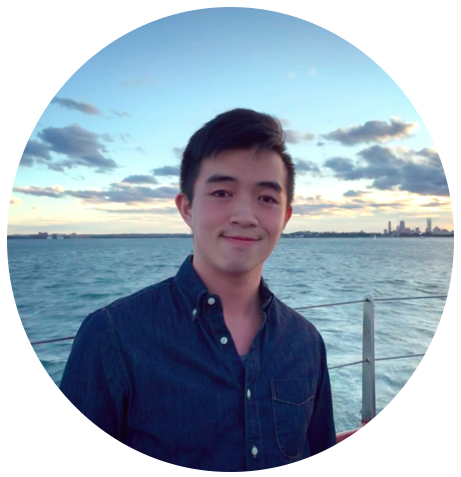
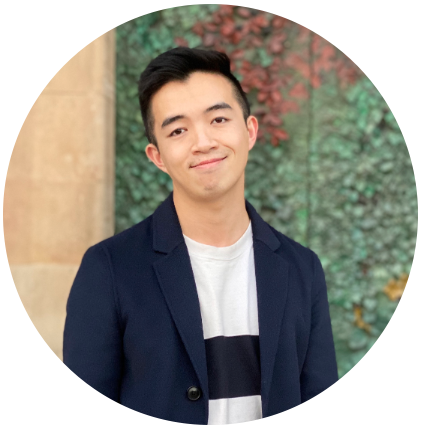
Updates
Updated CV, changed photo

diff --git a/index.html b/index.html
@@ -27,7 +27,7 @@ permalink: /
             <h2>About Me</h2>
             <p>I'm a third-year graduate student in psychology and a <a href="https://frankknox.harvard.edu/" target="_blank">Frank Knox Memorial Fellow</a> at Harvard University. My research focuses on the origins and development of sociomoral cognition. Currently, I'm working toward my PhD under the supervision of <a href="https://www.harvardlds.org/our-labs/spelke-labspelke-lab-members/elizabeth-spelke/" target="_blank">Dr. Elizabeth Spelke</a>.</p>
             <p>I received my BSc in Psychology from the University of British Columbia (UBC) in May 2017. At UBC, I completed my senior undergraduate honors thesis with <a href="https://cic.psych.ubc.ca/people/principal-investigator/" target="_blank">Dr. Kiley Hamlin</a>. Our research has been published in Cognition.</p>
-            <p> Here's a recent <a href="https://scholar.harvard.edu/files/brandonmatthewwoo/files/brandon_matthew_woo_-_cv_-_september_2019.pdf" target="_blank">CV</a>. </p>
+            <p> Here's a recent <a href="https://scholar.harvard.edu/files/brandonmatthewwoo/files/brandon_matthew_woo_-_cv_-_february_2020.pdf" target="_blank">CV</a>. </p>
             <a style="font-size:50px"; href="mailto: bmwoo@g.harvard.edu" target="_blank" title = "Email"><ion-icon name="mail"></ion-icon></a>
             <a style="font-size:50px"; href="https://scholar.google.com/citations?user=gE30Lw0AAAAJ&hl=en" target="_blank" title = "Google Scholar"><ion-icon name="school"></ion-icon></a>
             <a style="font-size:50px"; href="https://www.linkedin.com/in/brandon-matt-woo/" target="_blank" title = "LinkedIn"><ion-icon name="logo-linkedin"></ion-icon></a>

diff --git a/_site/index.html b/_site/index.html
@@ -108,7 +108,7 @@
             <h2>About Me</h2>
             <p>I'm a third-year graduate student in psychology and a <a href="https://frankknox.harvard.edu/" target="_blank">Frank Knox Memorial Fellow</a> at Harvard University. My research focuses on the origins and development of sociomoral cognition. Currently, I'm working toward my PhD under the supervision of <a href="https://www.harvardlds.org/our-labs/spelke-labspelke-lab-members/elizabeth-spelke/" target="_blank">Dr. Elizabeth Spelke</a>.</p>
             <p>I received my BSc in Psychology from the University of British Columbia (UBC) in May 2017. At UBC, I completed my senior undergraduate honors thesis with <a href="https://cic.psych.ubc.ca/people/principal-investigator/" target="_blank">Dr. Kiley Hamlin</a>. Our research has been published in Cognition.</p>
-            <p> Here's a recent <a href="https://scholar.harvard.edu/files/brandonmatthewwoo/files/brandon_matthew_woo_-_cv_-_september_2019.pdf" target="_blank">CV</a>. </p>
+            <p> Here's a recent <a href="https://scholar.harvard.edu/files/brandonmatthewwoo/files/brandon_matthew_woo_-_cv_-_february_2020.pdf" target="_blank">CV</a>. </p>
             <a style="font-size:50px"; href="mailto: bmwoo@g.harvard.edu" target="_blank" title = "Email"><ion-icon name="mail"></ion-icon></a>
             <a style="font-size:50px"; href="https://scholar.google.com/citations?user=gE30Lw0AAAAJ&hl=en" target="_blank" title = "Google Scholar"><ion-icon name="school"></ion-icon></a>
             <a style="font-size:50px"; href="https://www.linkedin.com/in/brandon-matt-woo/" target="_blank" title = "LinkedIn"><ion-icon name="logo-linkedin"></ion-icon></a>
